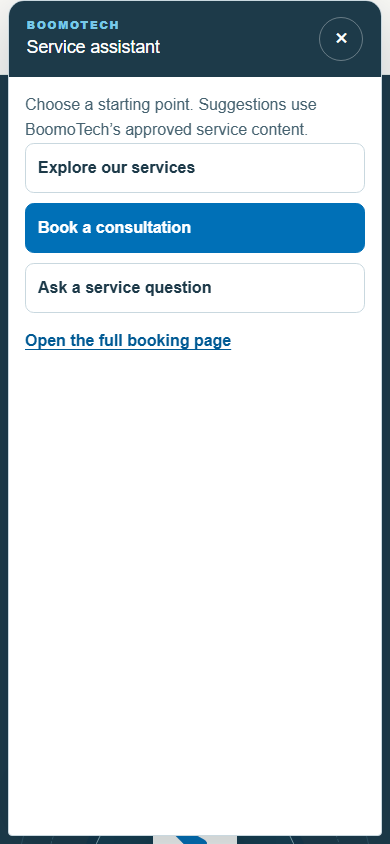
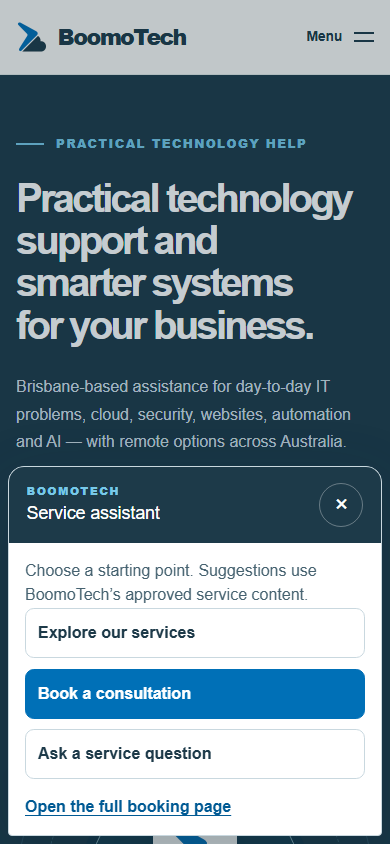
fix: tighten booking validation and mobile chat QA

diff --git a/tests/e2e/experience.spec.ts b/tests/e2e/experience.spec.ts
@@ -65,7 +65,7 @@ test("booking field errors are specific and focus the first invalid field", asyn
   await page.getByRole("button", { name: "Continue" }).click();
   await expect(page.getByText("Enter a valid email address.")).toBeVisible(); await expect(page.getByText("Enter a valid phone number.")).toBeVisible();
   await page.getByLabel(/Email address/).fill("taylor@example.com"); await expect(page.getByText("Enter a valid email address.")).toHaveCount(0);
-  await page.getByLabel(/Phone number/).fill("0400 000 000"); await page.getByRole("button", { name: "Continue" }).click();
+  await page.getByLabel(/Phone number/).fill("0400 000 000"); await expect(page.locator(".form-error[role='alert']")).toHaveCount(0); await page.getByRole("button", { name: "Continue" }).click();
   await page.getByRole("button", { name: "Continue" }).click();
   await expect(page.getByLabel(/Service required/)).toBeFocused(); await expect(page.getByText("Choose a service.")).toBeVisible(); await expect(page.getByText("Please add a little more detail.")).toBeVisible(); await expect(page.getByText("Consent is required before sending.")).toBeVisible();
 });
@@ -91,16 +91,37 @@ test("delivery failure preserves data and can be retried", async ({ page }) => {
   await expect(page.getByRole("heading", { name: "Request received" })).toBeVisible(); expect(calls).toBe(2);
 });
 
-test("mobile chatbot keeps booking fields and controls scrollable", async ({ page }) => {
-  await page.setViewportSize({ width: 320, height: 800 }); await page.goto("/"); await page.getByRole("button", { name: "Chat with BoomoTech" }).click(); await page.getByRole("button", { name: "Book a consultation" }).click();
-  const panel = page.locator(".chat-panel"); await expect(panel).toBeVisible(); expect(await panel.evaluate((node) => node.scrollHeight <= node.clientHeight + 1)).toBe(true);
-  await expect(page.getByLabel(/Full name/)).toBeVisible(); await expect(page.getByRole("button", { name: "Continue" })).toBeVisible();
+test("mobile chatbot fits short menus and completes booking at compact sizes", async ({ page }) => {
+  await page.route("**/api/booking", (route) => route.fulfill({ status: 200, contentType: "application/json", body: '{"ok":true}' }));
+  for (const viewport of [{ width: 320, height: 568 }, { width: 320, height: 800 }, { width: 390, height: 844 }]) {
+    await page.setViewportSize(viewport); await page.goto("/"); await page.getByRole("button", { name: "Chat with BoomoTech" }).click();
+    const panel = page.locator(".chat-panel"); const box = await panel.boundingBox();
+    expect(box).not.toBeNull(); expect(box!.height).toBeLessThan(viewport.height - 16); expect(await page.locator("body").evaluate((node) => getComputedStyle(node).overflow)).toBe("hidden");
+    await page.getByRole("button", { name: "Book a consultation" }).click(); await fillContact(page);
+    await page.getByLabel(/Service required/).selectOption("/services/it-support"); await page.getByLabel(/Problem or requested work/).fill("Several office computers need practical troubleshooting support."); await page.getByLabel(/I agree/).check(); await page.getByRole("button", { name: "Continue" }).click();
+    await page.getByRole("button", { name: "Send booking request" }).click(); await expect(page.getByRole("heading", { name: "Request received" })).toBeVisible();
+    await page.getByRole("button", { name: "Close assistant" }).click(); await expect(page.locator("body")).not.toHaveCSS("overflow", "hidden");
+  }
 });
 
 test("skip link and desktop current-page marker are accessible", async ({ page }) => {
   await page.goto("/services"); await page.keyboard.press("Tab"); await expect(page.getByRole("link", { name: "Skip to content" })).toBeFocused(); await page.keyboard.press("Enter"); await expect(page.locator("#main-content")).toBeFocused();
   const current = page.getByRole("navigation", { name: "Primary" }).getByRole("link", { name: "Services" }); await expect(current).toHaveAttribute("aria-current", "page");
   expect(await current.evaluate((node) => getComputedStyle(node, "::after").transform)).not.toBe("none");
+  const blog = page.getByRole("navigation", { name: "Primary" }).getByRole("link", { name: "Blog" });
+  expect(await blog.evaluate((node) => ({ display: getComputedStyle(node).display, alignItems: getComputedStyle(node).alignItems }))).toEqual({ display: "flex", alignItems: "center" });
+});
+
+test("mobile navigation and footer branding remain aligned", async ({ page }) => {
+  await page.setViewportSize({ width: 390, height: 844 }); await page.goto("/blog"); await page.locator("summary[aria-label='Toggle navigation']").click();
+  await expect(page.locator(".mobile-nav__link-label").filter({ hasText: "Blog" })).toHaveCSS("align-items", "center");
+  const footerLogo = page.locator(".brand-logo--footer img"); expect((await footerLogo.boundingBox())!.width).toBeGreaterThan(90);
+});
+
+test("same-origin browser requests reach the booking endpoint", async ({ page }) => {
+  await page.goto("/");
+  const status = await page.evaluate(async () => (await fetch("/api/booking", { method: "POST", headers: { "Content-Type": "application/json" }, body: JSON.stringify({ website: "automated-field" }) })).status);
+  expect(status).toBe(200);
 });
 
 test("blog articles expose canonical, Open Graph, updated and structured metadata", async ({ page, request }) => {

diff --git a/src/app/api/booking/route.test.ts b/src/app/api/booking/route.test.ts
@@ -4,7 +4,7 @@ import { POST } from "./route";
 
 const payload = { fullName: "Taylor Smith", email: "taylor@example.com", phone: "+61 400 000 000", servicePath: "/services/it-support", message: "We need help with several office computers.\nPlease contact us.", consent: true, website: "" };
 let client = 1;
-const request = (body: unknown, options: { origin?: string; userAgent?: string; raw?: string } = {}) => new Request("http://localhost/api/booking", { method: "POST", headers: { "content-type": "application/json", origin: options.origin ?? "http://localhost", "user-agent": options.userAgent ?? `booking-test-${client++}` }, body: options.raw ?? JSON.stringify(body) });
+const request = (body: unknown, options: { origin?: string; userAgent?: string; raw?: string; contentType?: string } = {}) => new Request("http://localhost/api/booking", { method: "POST", headers: { "content-type": options.contentType ?? "application/json", origin: options.origin ?? "http://localhost", "user-agent": options.userAgent ?? `booking-test-${client++}` }, body: options.raw ?? JSON.stringify(body) });
 
 describe("booking endpoint", () => {
   beforeEach(() => {
@@ -15,8 +15,15 @@ describe("booking endpoint", () => {
   afterEach(() => vi.restoreAllMocks());
 
   it("rejects requests from an unapproved origin", async () => expect((await POST(request(payload, { origin: "https://attacker.example" }))).status).toBe(403));
+  it("rejects unsupported request content types", async () => expect((await POST(request(payload, { contentType: "text/plain" }))).status).toBe(415));
   it("rejects invalid server-side input", async () => expect((await POST(request({ ...payload, consent: false }))).status).toBe(400));
-  it("rejects an oversized body without relying on content-length", async () => expect((await POST(request(payload, { raw: JSON.stringify({ ...payload, message: "x".repeat(21_000) }) }))).status).toBe(413));
+  it("stops reading and rejects an oversized streamed body without content-length", async () => {
+    const encoder = new TextEncoder(); let index = 0; let cancelled = false;
+    const chunks = [encoder.encode("x".repeat(15_000)), encoder.encode("x".repeat(6_000)), encoder.encode("unread")];
+    const stream = new ReadableStream<Uint8Array>({ pull(controller) { controller.enqueue(chunks[index++]); if (index === chunks.length) controller.close(); }, cancel() { cancelled = true; } });
+    const streamed = new Request("http://localhost/api/booking", { method: "POST", headers: { "content-type": "application/json", origin: "http://localhost", "user-agent": "stream-test" }, body: stream, duplex: "half" } as RequestInit & { duplex: "half" });
+    expect((await POST(streamed)).status).toBe(413); expect(cancelled).toBe(true); expect(index).toBe(2);
+  });
   it("accepts honeypot submissions without contacting a provider", async () => { const fetch = vi.spyOn(globalThis, "fetch"); expect((await POST(request({ ...payload, website: "spam" }))).status).toBe(200); expect(fetch).not.toHaveBeenCalled(); });
   it("rate limits repeated attempts from the same development client", async () => {
     for (let attempt = 0; attempt < 5; attempt += 1) expect((await POST(request(payload, { userAgent: "same-client" }))).status).toBe(503);

diff --git a/src/app/api/booking/route.ts b/src/app/api/booking/route.ts
@@ -4,6 +4,7 @@ import { NotificationConfigurationError, sendBookingNotification } from "@/featu
 import { getBookingClientKey, getBookingRateLimiter, RateLimitConfigurationError } from "@/features/booking/rate-limiter";
 
 const MAX_BODY_BYTES = 20_000;
+class BodyTooLargeError extends Error {}
 
 function approvedOrigin(request: Request) {
   const configured = process.env.SITE_URL?.trim();
@@ -11,15 +12,44 @@ function approvedOrigin(request: Request) {
   return new URL(request.url).origin;
 }
 
+async function readRequestBody(request: Request) {
+  const reader = request.body?.getReader();
+  if (!reader) return "";
+  const chunks: Uint8Array[] = [];
+  let total = 0;
+  try {
+    while (true) {
+      const { done, value } = await reader.read();
+      if (done) break;
+      total += value.byteLength;
+      if (total > MAX_BODY_BYTES) {
+        await reader.cancel().catch(() => undefined);
+        throw new BodyTooLargeError();
+      }
+      chunks.push(value);
+    }
+  } finally {
+    reader.releaseLock();
+  }
+  const bytes = new Uint8Array(total);
+  let offset = 0;
+  for (const chunk of chunks) { bytes.set(chunk, offset); offset += chunk.byteLength; }
+  return new TextDecoder().decode(bytes);
+}
+
 export async function POST(request: Request) {
   const origin = request.headers.get("origin");
   if (!origin || origin !== approvedOrigin(request)) return NextResponse.json({ error: "This request did not come from the approved website." }, { status: 403 });
 
+  const contentType = request.headers.get("content-type")?.split(";", 1)[0]?.trim().toLowerCase();
+  if (contentType !== "application/json") return NextResponse.json({ error: "Unsupported request content type." }, { status: 415 });
+
   const declaredLength = Number(request.headers.get("content-length") ?? 0);
   if (declaredLength > MAX_BODY_BYTES) return NextResponse.json({ error: "Request is too large." }, { status: 413 });
   let raw = "";
-  try { raw = await request.text(); } catch { return NextResponse.json({ error: "Invalid request." }, { status: 400 }); }
-  if (new TextEncoder().encode(raw).byteLength > MAX_BODY_BYTES) return NextResponse.json({ error: "Request is too large." }, { status: 413 });
+  try { raw = await readRequestBody(request); } catch (error) {
+    return NextResponse.json({ error: error instanceof BodyTooLargeError ? "Request is too large." : "Invalid request." }, { status: error instanceof BodyTooLargeError ? 413 : 400 });
+  }
 
   let payload: unknown;
   try { payload = JSON.parse(raw); } catch { return NextResponse.json({ error: "Invalid request." }, { status: 400 }); }

diff --git a/src/app/globals.css b/src/app/globals.css
@@ -92,7 +92,7 @@ svg { display: block; }
 .brand-mark i:first-child { transform: translateX(-.48rem) rotate(-22deg); background: var(--color-ink); }
 .brand-mark i:last-child { transform: translateX(.48rem) rotate(22deg); background: var(--color-accent); }
 .desktop-nav { display: flex; flex: 1; align-items: center; justify-content: center; gap: clamp(.8rem, 1.8vw, 1.9rem); }
-.desktop-nav a { position: relative; padding-block: .55rem; color: var(--color-ink-soft); font-size: .88rem; font-weight: 650; white-space: nowrap; transition: color .2s; }
+.desktop-nav a { position: relative; display: inline-flex; align-items: center; gap: .45rem; padding-block: .55rem; color: var(--color-ink-soft); font-size: .88rem; font-weight: 650; white-space: nowrap; transition: color .2s; }
 .desktop-nav a::after { position: absolute; right: 0; bottom: .25rem; left: 0; height: 2px; transform: scaleX(0); transform-origin: right; background: var(--color-primary); content: ""; transition: transform .22s ease; }
 .desktop-nav a:hover::after, .desktop-nav a:focus-visible::after, .desktop-nav a[aria-current="page"]::after { transform: scaleX(1); transform-origin: left; }
 .desktop-nav a:hover { color: var(--color-primary); }
@@ -237,7 +237,7 @@ svg { display: block; }
 }
 
 @media (max-width: 480px) {
-  .section-space { padding-block: 4.5rem; }.brand-logo { font-size: 1.35rem; }.brand-logo > img { width: 2rem; height: 2rem; }
+  .section-space { padding-block: 4.5rem; }.brand-logo { font-size: 1.35rem; }.brand-logo:not(.brand-logo--footer) > img { width: 2rem; height: 2rem; }
   .hero__grid { padding-block: 3.8rem 2.5rem; }.hero h1 { font-size: clamp(2.5rem, 10vw, 3.2rem); }.hero__lead { font-size: 1rem; }
   .hero__actions { flex-direction: column; }.hero__actions .button-link { width: 100%; }.hero-visual { min-height: 340px; }.hero-visual__core { min-width: 210px; box-shadow: 0 0 0 9px #15374a; }.hero-visual__chip { font-size: .56rem; }.hero-visual__chip--left { left: 0; }.hero-visual__chip--right { right: 0; }
   .pathway-grid { grid-template-columns: 1fr; }.pathway-card { min-height: 255px; }.pathway-card h3 { margin-top: 1.5rem; }

diff --git a/src/styles/chatbot.css b/src/styles/chatbot.css
@@ -35,10 +35,10 @@
   .chatbot { right: max(.5rem, env(safe-area-inset-right)); bottom: max(.5rem, env(safe-area-inset-bottom)); left: max(.5rem, env(safe-area-inset-left)); }
   .chat-launcher span { position: absolute; width: 1px; height: 1px; overflow: hidden; clip: rect(0 0 0 0); }
   .chat-launcher { width: 3.5rem; justify-content: center; padding: 0; }
-  .chatbot.is-open { inset: 0; display: block; padding: max(.5rem, env(safe-area-inset-top)) max(.5rem, env(safe-area-inset-right)) max(.5rem, env(safe-area-inset-bottom)) max(.5rem, env(safe-area-inset-left)); background: rgb(13 42 59 / 24%); }
+  .chatbot.is-open { inset: 0; display: flex; align-items: flex-end; justify-content: center; padding: max(.5rem, env(safe-area-inset-top)) max(.5rem, env(safe-area-inset-right)) max(.5rem, env(safe-area-inset-bottom)) max(.5rem, env(safe-area-inset-left)); background: rgb(13 42 59 / 24%); }
   .chatbot.is-open .chat-launcher { display: none; }
-  .chat-panel { display: grid; width: 100%; height: 100%; max-height: 100%; grid-template-rows: auto minmax(0, 1fr); border-radius: 1rem 1rem .25rem .25rem; }
-  .chat-body { max-height: none; min-height: 0; padding-bottom: calc(1rem + env(safe-area-inset-bottom)); scroll-padding-bottom: 8rem; }
+  .chat-panel { display: grid; width: 100%; height: auto; max-height: calc(100dvh - max(1rem, env(safe-area-inset-top)) - max(1rem, env(safe-area-inset-bottom))); grid-template-rows: auto minmax(0, auto); border-radius: 1rem 1rem .25rem .25rem; }
+  .chat-body { max-height: calc(100dvh - 6rem - env(safe-area-inset-top) - env(safe-area-inset-bottom)); min-height: 0; padding-bottom: calc(1rem + env(safe-area-inset-bottom)); scroll-padding-bottom: 8rem; }
   .booking-actions { position: sticky; bottom: calc(-1rem - env(safe-area-inset-bottom)); z-index: 2; margin-inline: -1rem; padding: .85rem 1rem calc(.85rem + env(safe-area-inset-bottom)); border-top: 1px solid var(--color-border); background: white; }
   .booking-actions .button-link { min-width: 0; }
 }

diff --git a/src/features/booking/booking-schema.test.ts b/src/features/booking/booking-schema.test.ts
@@ -7,4 +7,19 @@ describe("booking request schema", () => {
   it("requires consent", () => { expect(bookingRequestSchema.safeParse({ ...valid, consent: false }).success).toBe(false); });
   it("rejects unknown services and invalid contact fields", () => { expect(bookingRequestSchema.safeParse({ ...valid, servicePath: "/fake", email: "bad" }).success).toBe(false); });
   it("rejects the honeypot when filled", () => { expect(bookingRequestSchema.safeParse({ ...valid, website: "spam" }).success).toBe(false); });
+  it.each([
+    ["Australian mobile with spaces", "0400 000 000", "0400000000"],
+    ["parentheses and hyphens", "+61 (7) 3123-4567", "+61731234567"],
+  ])("accepts and normalises %s", (_label, phone, expected) => {
+    expect(bookingRequestSchema.parse({ ...valid, phone }).phone).toBe(expected);
+  });
+  it.each([
+    ["dots only", "........"],
+    ["dashes only", "--------"],
+    ["letters", "phone number"],
+    ["too few digits", "1234567"],
+    ["too many digits", "1234567890123456"],
+    ["repeated plus", "++61400000000"],
+    ["misplaced plus", "61+400000000"],
+  ])("rejects %s", (_label, phone) => expect(bookingRequestSchema.safeParse({ ...valid, phone }).success).toBe(false));
 });

diff --git a/src/features/booking/booking-schema.ts b/src/features/booking/booking-schema.ts
@@ -12,9 +12,13 @@ const serviceValues = new Set(bookingOptions.map(({ value }) => value));
 export const bookingRequestSchema = z.object({
   fullName: z.string().trim().min(2, "Enter your full name.").max(100),
   email: z.string().trim().toLowerCase().email("Enter a valid email address.").max(254),
-  phone: z.string().trim().min(8, "Enter a valid phone number.").max(32)
-    .refine((value) => /^[+()\d\s.-]+$/.test(value), "Enter a valid phone number.")
-    .transform((value) => value.replace(/[().\s-]+/g, "")),
+  phone: z.string().trim().min(1, "Enter a valid phone number.").max(32)
+    .regex(/^\+?[\d\s().-]+$/, "Enter a valid phone number.")
+    .refine((value) => {
+      const digitCount = value.replace(/\D/g, "").length;
+      return digitCount >= 8 && digitCount <= 15;
+    }, "Enter a valid phone number.")
+    .transform((value) => `${value.startsWith("+") ? "+" : ""}${value.replace(/\D/g, "")}`),
   servicePath: z.string().refine((value) => serviceValues.has(value), "Choose a service."),
   message: z.string().trim().min(20, "Please add a little more detail.").max(3000),
   consent: z.literal(true, { error: "Consent is required before sending." }),

diff --git a/src/features/booking/booking-form.tsx b/src/features/booking/booking-form.tsx
@@ -44,7 +44,14 @@ export function BookingForm({ initialService = "", compact = false, onClose }: {
 
   function update(field: keyof Fields, value: string | boolean) {
     setFields((current) => ({ ...current, [field]: value }));
-    if (errors[field]) setErrors((current) => ({ ...current, [field]: fieldError(field, value) }));
+    if (errors[field]) {
+      const nextErrors = { ...errors };
+      const nextError = fieldError(field, value);
+      if (nextError) nextErrors[field] = nextError;
+      else delete nextErrors[field];
+      setErrors(nextErrors);
+      if (!Object.values(nextErrors).some(Boolean)) setFormError("");
+    }
   }
 
   function focusFirstInvalid(nextErrors: FieldErrors) {

diff --git a/playwright.config.ts b/playwright.config.ts
@@ -5,7 +5,7 @@ export default defineConfig({
   fullyParallel: true,
   retries: process.env.CI ? 2 : 0,
   reporter: process.env.CI ? "github" : "list",
-  use: { baseURL: "http://127.0.0.1:3100", trace: "on-first-retry" },
-  webServer: { command: "pnpm start --port 3100", url: "http://127.0.0.1:3100", reuseExistingServer: !process.env.CI, timeout: 120_000 },
+  use: { baseURL: "http://localhost:3100", trace: "on-first-retry" },
+  webServer: { command: "pnpm start --hostname localhost --port 3100", url: "http://localhost:3100", reuseExistingServer: !process.env.CI, timeout: 120_000 },
   projects: [{ name: "chromium", use: { ...devices["Desktop Chrome"] } }],
 });

diff --git a/src/features/chat/chatbot.tsx b/src/features/chat/chatbot.tsx
@@ -52,6 +52,12 @@ export function Chatbot() {
     return () => window.removeEventListener("keydown", escape);
   }, [open]);
   useEffect(() => {
+    if (!open || !window.matchMedia("(max-width: 600px)").matches) return;
+    const previousOverflow = document.body.style.overflow;
+    document.body.style.overflow = "hidden";
+    return () => { document.body.style.overflow = previousOverflow; };
+  }, [open]);
+  useEffect(() => {
     if (!open || view === "home" || view === "booking") return;
     requestAnimationFrame(() => viewHeading.current?.focus());
   }, [open, view, categoryId]);
